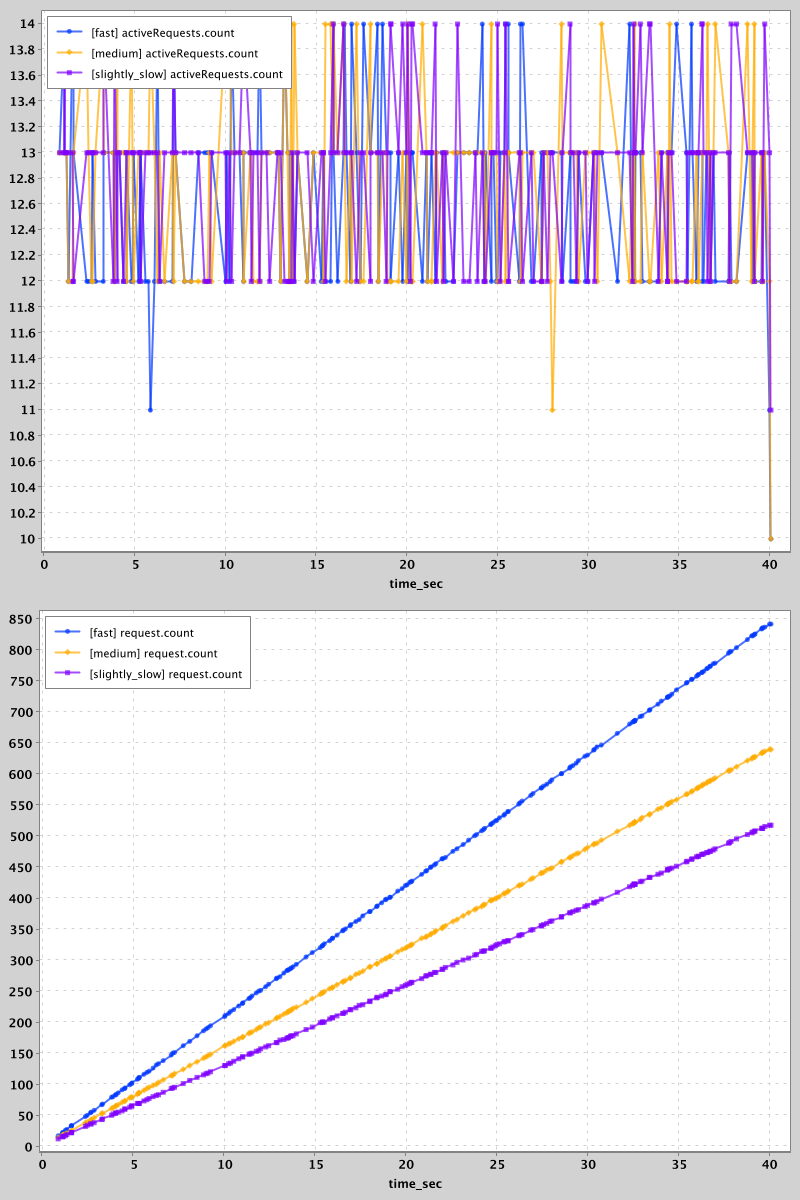
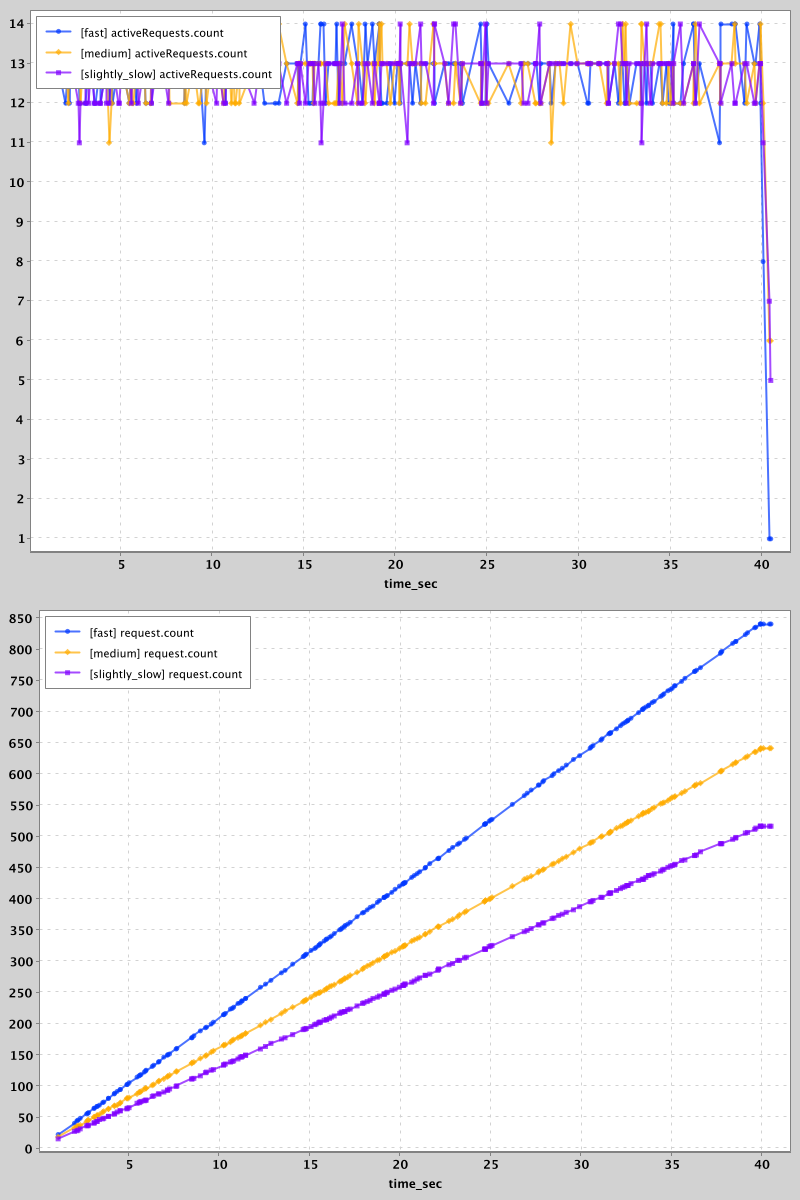
Return typed results from benchmark

diff --git a/simulation/src/main/java/com/palantir/dialogue/core/Benchmark.java b/simulation/src/main/java/com/palantir/dialogue/core/Benchmark.java
@@ -25,14 +25,13 @@ import com.google.common.util.concurrent.SettableFuture;
 import com.palantir.dialogue.Response;
 import java.time.Duration;
 import java.time.Instant;
-import java.util.ArrayList;
 import java.util.HashMap;
-import java.util.List;
 import java.util.Map;
 import java.util.Random;
 import java.util.concurrent.TimeUnit;
 import java.util.function.Function;
 import java.util.stream.IntStream;
+import org.immutables.value.Value;
 import org.slf4j.Logger;
 import org.slf4j.LoggerFactory;
 
@@ -44,7 +43,6 @@ public final class Benchmark {
     private int numRequests = 20;
     private Simulation simulation;
     private Function<Integer, ListenableFuture<Response>> channel;
-    private final List<Runnable> onCompletion = new ArrayList<>();
 
     private final Random random = new Random(12345L);
 
@@ -74,19 +72,15 @@ public final class Benchmark {
         return this;
     }
 
-    public Benchmark onCompletion(Runnable runnable) {
-        onCompletion.add(runnable);
-        return this;
-    }
-
-    public void run() {
-        schedule();
+    public BenchmarkResult run() {
+        SettableFuture<BenchmarkResult> result = schedule();
         simulation.runClockToInfinity();
+        return Futures.getUnchecked(result);
     }
 
-    public ListenableFuture<Void> schedule() {
+    public SettableFuture<BenchmarkResult> schedule() {
         Instant realStart = Instant.now();
-        SettableFuture<Void> done = SettableFuture.create();
+        SettableFuture<BenchmarkResult> done = SettableFuture.create();
 
         int numMetricSamples = 200;
         int checkPoint = numRequests / numMetricSamples;
@@ -96,11 +90,53 @@ public final class Benchmark {
 
         int[] outstanding = new int[] {numRequests};
         Map<String, Integer> statusCodes = new HashMap<>();
+        Runnable maybeTerminate = () -> {
+            outstanding[0] -= 1;
+            if (outstanding[0] == 0) {
+                BenchmarkResult result = ImmutableBenchmarkResult.builder()
+                        .clientHistogram(histogramChannel.getHistogram().getSnapshot())
+                        .endTime(Duration.ofNanos(simulation.clock().read()))
+                        .statusCodes(statusCodes)
+                        .successPercentage(Math.round(statusCodes.get("200") * 1000d / numRequests) / 10d)
+                        .build();
+                log.info(
+                        "Finished simulation: client_mean={}, end_time={}, success={}% codes={} ({} ms)",
+                        Duration.ofNanos((long) result.clientHistogram().getMean()),
+                        result.endTime(),
+                        result.successPercentage(),
+                        result.statusCodes(),
+                        Duration.between(realStart, Instant.now()));
+                done.set(result);
+            }
+            // TODO(dfox): backstop in case one of the requests never comes back??
+        };
 
         IntStream.range(0, numRequests).forEach(requestNum -> {
             if (requestNum % checkPoint == 0) {
                 log.debug("Scheduling request {}", requestNum);
             }
+
+            Runnable reportMetrics = () -> {
+                // we sample metrics with a little jitter to avoid misleading harmonic graphs
+                if ((requestNum + random.nextInt(checkPoint)) % checkPoint == 0) {
+                    log.debug("Reporting metrics at requestNum={}", requestNum);
+                    simulation.metrics().report();
+                }
+            };
+
+            FutureCallback<Response> accumulateStatusCodes = new FutureCallback<Response>() {
+                @Override
+                public void onSuccess(Response response) {
+                    statusCodes.compute(Integer.toString(response.code()), (c, num) -> num == null ? 1 : num + 1);
+                }
+
+                @Override
+                public void onFailure(Throwable throwable) {
+                    log.warn("requestNum={}", requestNum, throwable);
+                    statusCodes.compute(throwable.getClass().toString(), (c, num) -> num == null ? 1 : num + 1);
+                }
+            };
+
             simulation.schedule(
                     () -> {
                         log.debug(
@@ -108,58 +144,26 @@ public final class Benchmark {
                                 simulation.clock().read(),
                                 requestNum);
                         ListenableFuture<Response> future = histogramChannel.apply(requestNum);
-                        Futures.addCallback(
-                                future,
-                                new FutureCallback<Response>() {
-                                    @Override
-                                    public void onSuccess(Response response) {
-                                        statusCodes.compute(
-                                                Integer.toString(response.code()),
-                                                (c, num) -> num == null ? 1 : num + 1);
-                                    }
 
-                                    @Override
-                                    public void onFailure(Throwable throwable) {
-                                        log.warn("requestNum={}", requestNum, throwable);
-                                        statusCodes.compute(
-                                                throwable.getClass().toString(), (c, num) -> num == null ? 1 : num + 1);
-                                    }
-                                },
-                                MoreExecutors.directExecutor());
-                        future.addListener(
-                                () -> {
-                                    outstanding[0] -= 1;
-                                    if (outstanding[0] == 0) {
-                                        done.set(null);
-                                    }
-
-                                    // we sample metrics with a little jitter to avoid misleading harmonic graphs
-                                    if ((requestNum + random.nextInt(checkPoint)) % checkPoint == 0) {
-                                        log.debug("Reporting metrics at requestNum={}", requestNum);
-                                        simulation.metrics().report();
-                                    }
-                                },
-                                MoreExecutors.directExecutor());
+                        Futures.addCallback(future, accumulateStatusCodes, MoreExecutors.directExecutor());
+                        future.addListener(reportMetrics, MoreExecutors.directExecutor());
+                        future.addListener(maybeTerminate, MoreExecutors.directExecutor());
                     },
                     requestNum * intervalBetweenRequests.toNanos(),
                     TimeUnit.NANOSECONDS);
         });
 
-        onCompletion(() -> {
-            Snapshot snapshot = histogramChannel.getHistogram().getSnapshot();
-
-            log.info(
-                    "Finished simulation: client_mean={}, end_time={}, success={}% codes={} ({} ms)", // return typed
-                    // stats?
-                    Duration.ofNanos((long) snapshot.getMean()),
-                    Duration.ofNanos(simulation.clock().read()),
-                    Math.round(statusCodes.get("200") * 1000d / numRequests) / 10d,
-                    statusCodes,
-                    Duration.between(realStart, Instant.now()).toMillis());
-        });
-
-        onCompletion.forEach(runnable -> done.addListener(runnable, MoreExecutors.directExecutor()));
-
         return done;
+    }
+
+    @Value.Immutable
+    interface BenchmarkResult {
+        Snapshot clientHistogram();
+
+        Duration endTime();
+
+        Map<String, Integer> statusCodes();
+
+        double successPercentage();
     }
 }

diff --git a/simulation/src/main/java/com/palantir/dialogue/core/Simulation.java b/simulation/src/main/java/com/palantir/dialogue/core/Simulation.java
@@ -86,7 +86,7 @@ final class Simulation {
     }
 
     public void runClockToInfinity() {
-        deterministicExecutor.tick(Long.MAX_VALUE, TimeUnit.NANOSECONDS);
+        deterministicExecutor.tick(Duration.ofDays(1).toNanos(), TimeUnit.NANOSECONDS);
     }
 
     private static final class TestCaffeineTicker implements Ticker {
